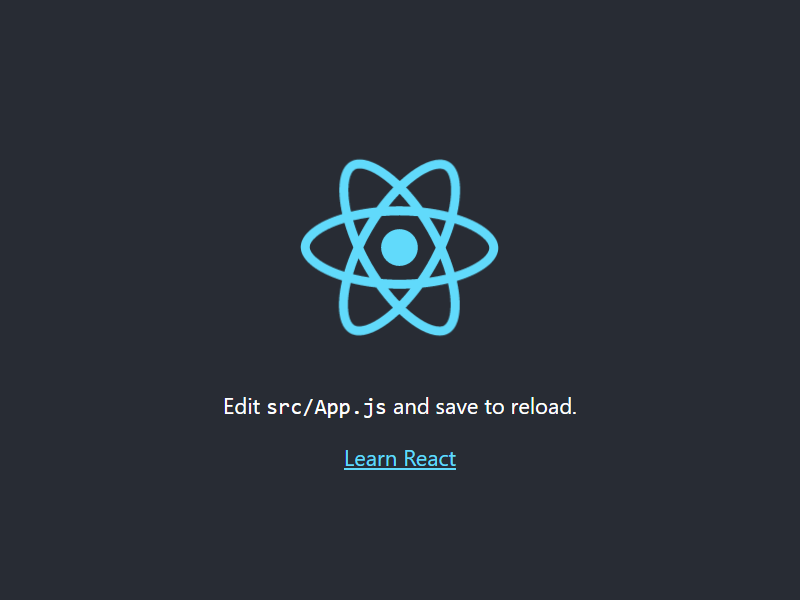
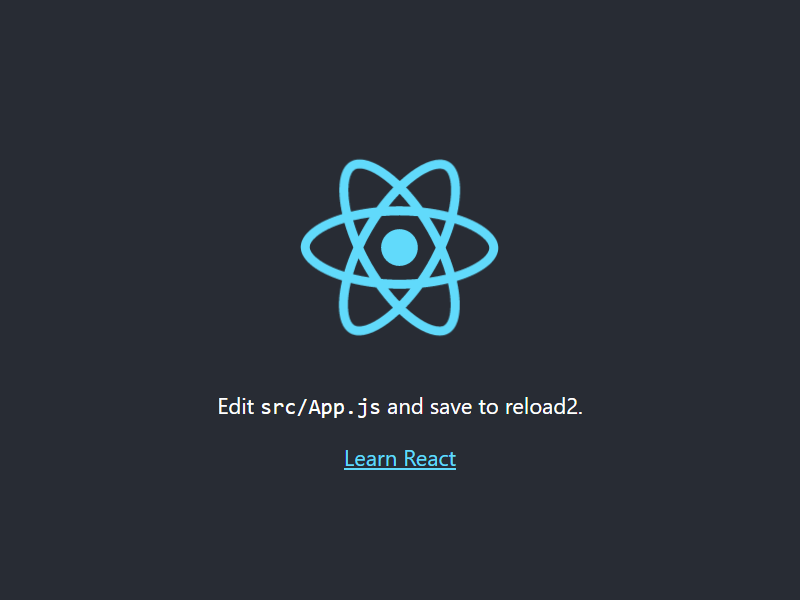
update

Changed region(s): [[0.25, 0.66, 0.7188, 0.72]]

diff --git a/src/App.test.js b/src/App.test.js
@@ -14,6 +14,9 @@ it('renders correctly', async () => {
     storeReceivedOnFailure: true,
     customSnapshotsDir: 'src/assets/screenshots',
     customDiffDir: 'src/assets/screenshots',
-    customReceivedDir: 'src/assets/screenshots'
+    customReceivedDir: 'src/assets/screenshots',
+    failureThresholdType:'percent',
+    failureThreshold:1,
+    updatePassedSnapshot:true
   });
 },50000);

diff --git a/src/App.js b/src/App.js
@@ -7,7 +7,7 @@ function App() {
       <header className="App-header">
         <img src={logo} className="App-logo" alt="logo" />
         <p>
-          Edit <code>src/App.js</code> and save to reload.
+          Edit <code>src/App.js</code> and save to reload2.
         </p>
         <a
           className="App-link"
